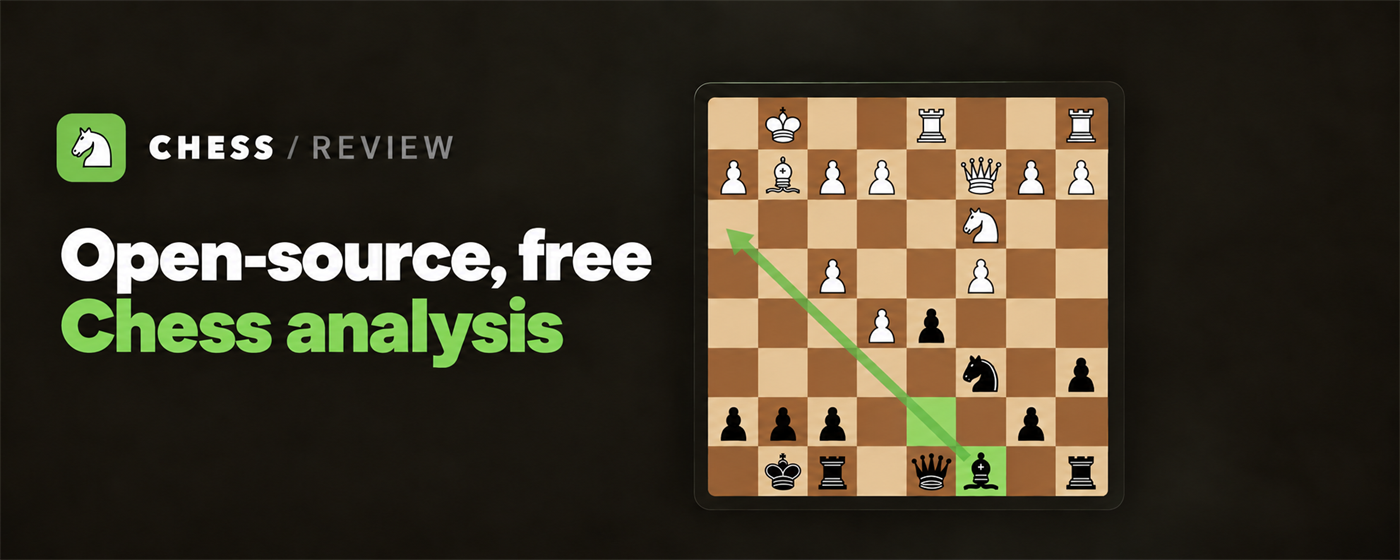
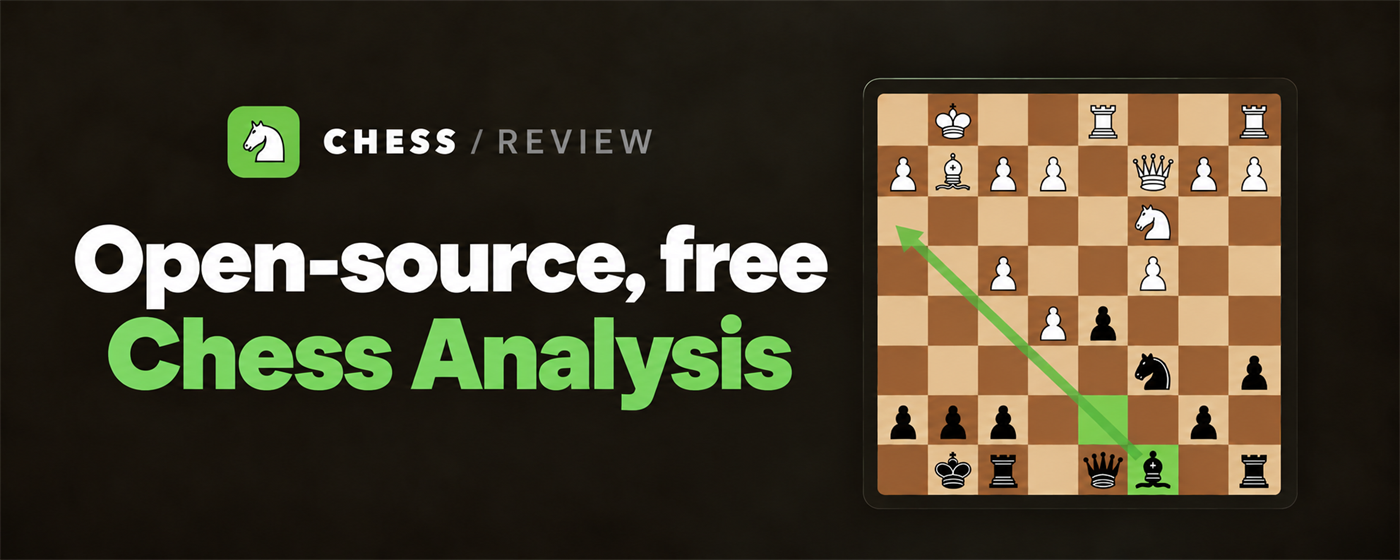
marketing: rebalance open-source promo typography and layout
Set the small tile headline on three naturally proportioned lines with similar widths. Move the marquee board right and center the larger headline and logo in the expanded text area.

diff --git a/marketing/chrome-web-store/promo tiles/README.md b/marketing/chrome-web-store/promo tiles/README.md
@@ -41,26 +41,31 @@ Marquee prompt:
 - `small-promo-tile-open-source-440x280.png`: 440 x 280 PNG.
 - `marquee-promo-tile-open-source-1400x560.png`: 1400 x 560 PNG.
 
-These new sibling versions preserve the corrected originals above. The headline
-is "Open-source, free" in white followed by "Chess analysis" in green. The small
-tile wraps this over four lines; the marquee uses two lines. Both exports were
+These sibling versions preserve the corrected originals above. The small tile
+uses three lines: "Open-source" in white, then "Free Chess" and "Analysis" in
+green. Each line uses a naturally proportioned font size to give similar visual
+widths. The marquee uses "Open-source, free" in white above "Chess Analysis" in
+green, with both lines centered on the same axis. The logo is centered above
+the enlarged headline, and the board sits farther right. Both exports were
 created with built-in imagegen, resampled with System.Drawing HighQualityBicubic,
 decoded to confirm PNG format and dimensions, and visually checked. The original
 tile hashes were checked to confirm neither original changed.
 
 Small variant prompt:
 
-> Use case: text-localization. Replace only the left headline with Open-source,
-> free in white followed by Chess analysis in green. Use four lines: Open-source,
-> / free / Chess / analysis, matching the bold sans serif and original left text
-> area. Preserve the logo, dark texture, board placement, all pieces, green c8
-> bishop, ordinary c6 knight square, absent e6 pawn, green d7 and c8-h3 arrow.
-> No accuracy panel, added text or watermark. Keep the 440:280 aspect ratio.
+> Use case: text-localization. Change only the left headline to exactly three
+> lines: Open-source / Free Chess / Analysis. Use white for the first line and
+> green for the others. Use naturally proportioned bold sans serif with no
+> horizontal compression: first line about 28-30 px and following lines larger
+> so each line is about 205 px wide. Preserve the logo, dark texture, board
+> placement, all pieces, green c8 bishop, ordinary c6 knight square, absent e6
+> pawn, green d7 and c8-h3 arrow. No accuracy panel, added text or watermark.
+> Keep the 440:280 aspect ratio.
 
 Marquee variant prompt:
 
-> Replace only the two headline lines with Open-source, free in white and Chess
-> analysis in green. Match the existing bold typography and left alignment, and
-> fit before the board. Preserve the logo, background, board, corrected c8-h3
-> arrow, bishop green square, tan knight square, cleared e6 square and remaining
-> pieces. No accuracy panel, extra text or watermark.
+> Refine the existing banner into balanced columns. Move the board substantially
+> right without enlarging it. Enlarge white Open-source, free and green Chess
+> Analysis, centering both on one axis. Center the logo lockup above them.
+> Preserve the background, pieces, highlights and corrected bishop arrow.
+> No accuracy panel, extra copy or watermark. Keep the 1400:560 aspect ratio.
